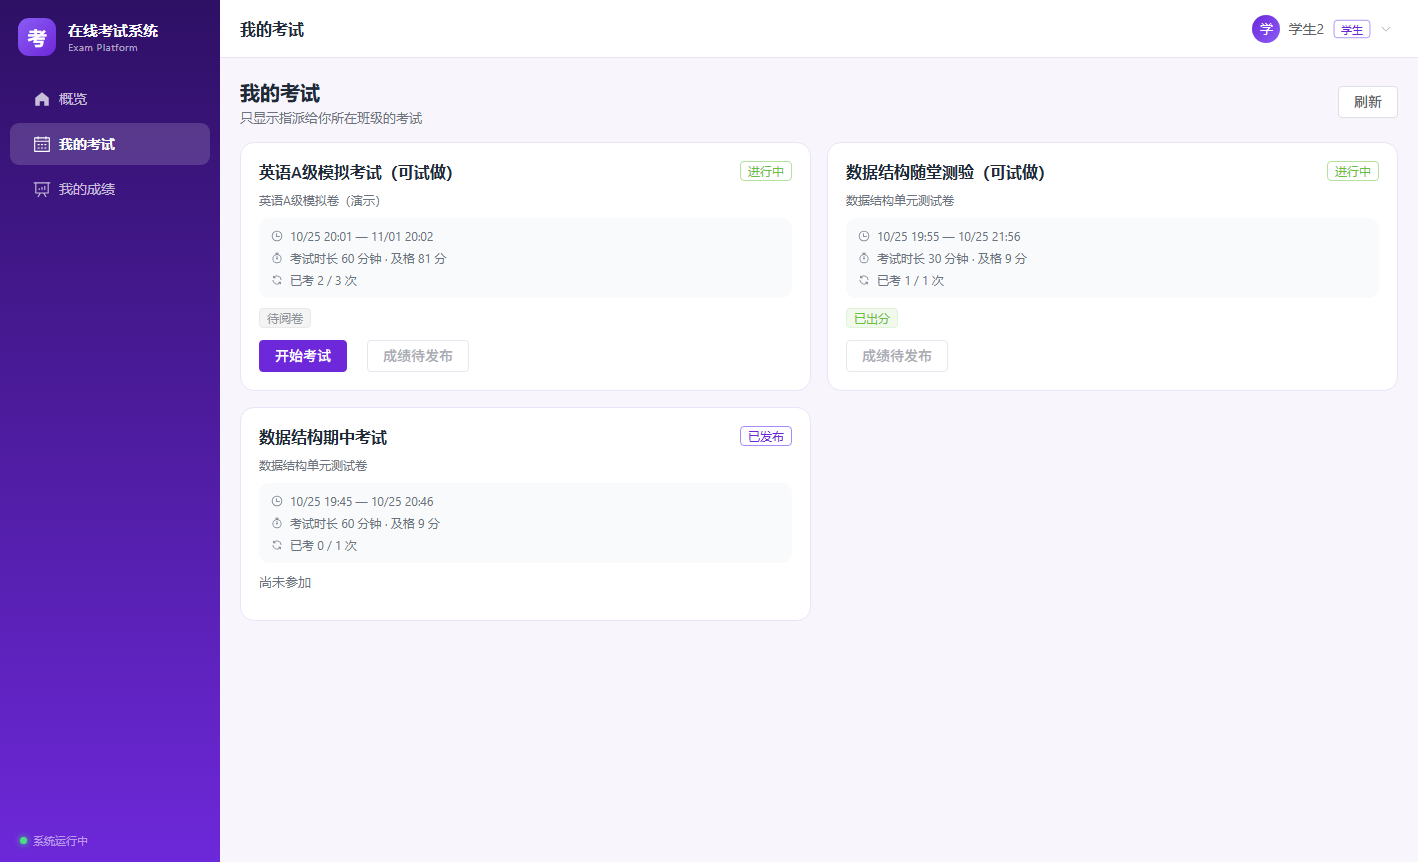
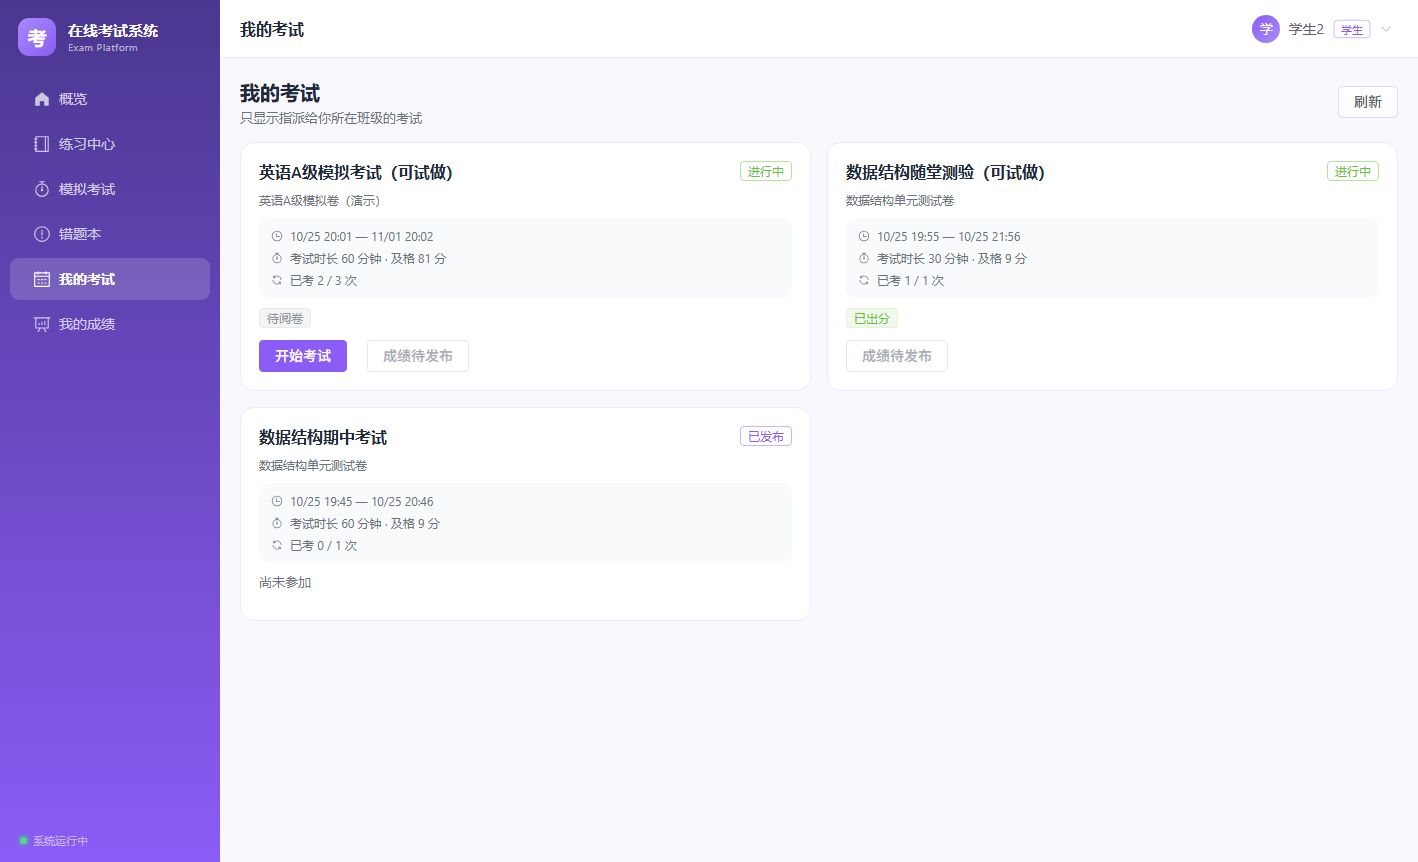
style(web): 学生端紫色主题调浅

Changed region(s): [[0.0, 0.0, 0.2482, 1.0], [0.8688, 0.0, 0.8999, 0.0603], [0.5275, 0.4826, 0.5585, 0.5128]]

diff --git a/web/src/styles/main.css b/web/src/styles/main.css
@@ -22,27 +22,27 @@
 
 /* 学生端紫色主题：在学生布局、答题页、成绩页的根节点加 .theme-purple */
 .theme-purple {
-  --brand: #6d28d9;
-  --brand-light: #8b5cf6;
-  --brand-soft: #f3e8ff;
-  --brand-deep: #2e1065;
-  --brand-grad: linear-gradient(135deg, #4c1d95, #6d28d9 60%, #8b5cf6);
-  --brand-shadow: rgba(109, 40, 217, 0.24);
-  --brand-ring: rgba(109, 40, 217, 0.12);
+  --brand: #8b5cf6;
+  --brand-light: #a78bfa;
+  --brand-soft: #f6f3ff;
+  --brand-deep: #4a378f;
+  --brand-grad: linear-gradient(135deg, #7a5fd0, #9b82f5 60%, #b9a6ff);
+  --brand-shadow: rgba(139, 92, 246, 0.2);
+  --brand-ring: rgba(139, 92, 246, 0.14);
   --brand-border-strong: #c4b5fd;
   --sheet-answered-bg: #ede9fe;
   --sheet-answered-border: #c4b5fd;
-  --sheet-answered-text: #6d28d9;
-  --page-bg: #f8f5fc;
-  --border: #ebe3f7;
+  --sheet-answered-text: #7c3aed;
+  --page-bg: #faf8ff;
+  --border: #efeaf9;
 
-  --el-color-primary: #6d28d9;
-  --el-color-primary-light-3: #8b5cf6;
-  --el-color-primary-light-5: #a78bfa;
-  --el-color-primary-light-7: #c4b5fd;
-  --el-color-primary-light-8: #ddd6fe;
-  --el-color-primary-light-9: #f3e8ff;
-  --el-color-primary-dark-2: #5b21b6;
+  --el-color-primary: #8b5cf6;
+  --el-color-primary-light-3: #a78bfa;
+  --el-color-primary-light-5: #c4b5fd;
+  --el-color-primary-light-7: #ddd6fe;
+  --el-color-primary-light-8: #ede9fe;
+  --el-color-primary-light-9: #f5f3ff;
+  --el-color-primary-dark-2: #7c3aed;
 }
 
 * {
